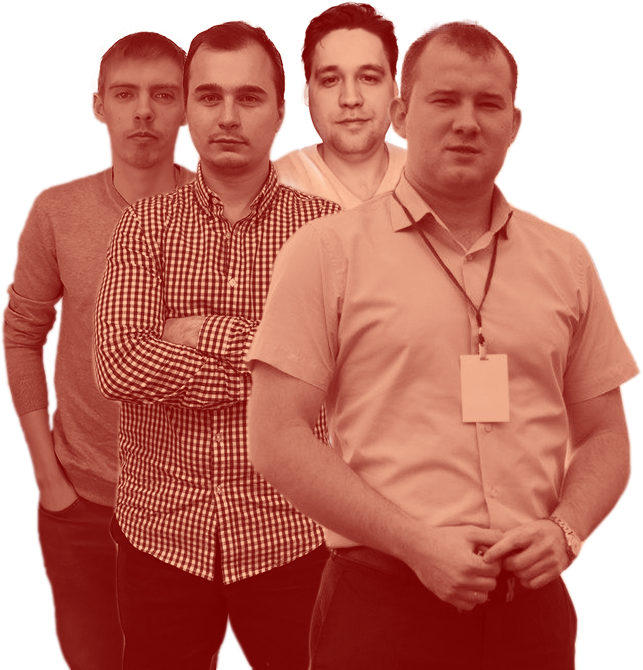
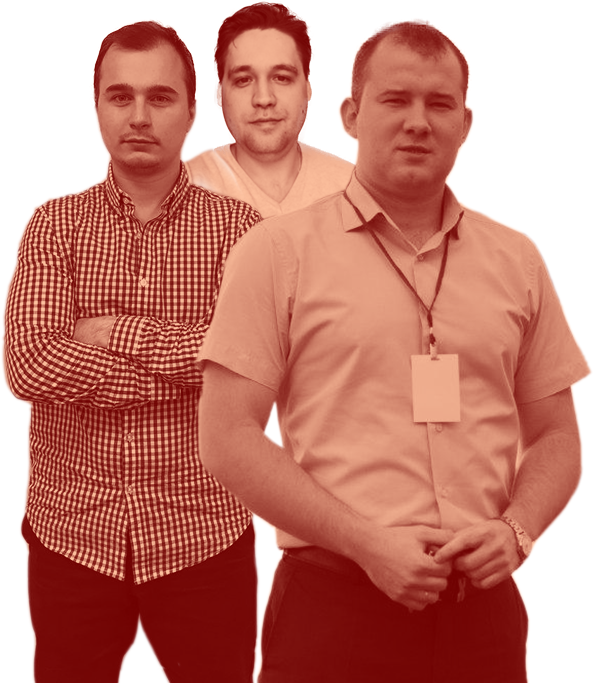
asd

diff --git a/portfolio/1-5/css/index.css b/portfolio/1-5/css/index.css
@@ -175,100 +175,175 @@ left: 0;
 z-index: -2;
 }
 
+#team .team-kosar {
+position: absolute;
+bottom: 0;
+z-index: -3;
+left: 21vw;
+}
+
 #team .team-center {
 position: absolute;
 bottom: 0;
 z-index: -3;
-left: 0;
-right: 0;
-margin: 0 auto;
-width: 643px;
+left: 36vw;
+
+}
+
+#team .team-maks {
+position: absolute;
+bottom: 0;
+z-index: -1;
+left: 69vw;
 }
 
 #team .team-right {
 position: absolute;
 bottom: 0;
 right: 0;
-z-index: -1;	
+z-index: -2;	
 }
 
 
-@media screen and (max-width: 1381px) { 
+#team .team-left {
+    width: calc(480px + 3%);
+}
+
+#team .team-kosar {
+    width: calc(293px + 3%);
+}
+
+#team .team-center {
+	width: calc(594px + 6%);
+}
+
+#team .team-maks {
+	width: calc(356px + 2%);
+}
+
+#team .team-right {
+	width: calc(268px + 3%);
+}
+
+
+
+
+@media screen and (max-width: 1620px) { 
+
+#team .team-left {
+    width: 480px
+}
+
+#team .team-kosar {
+    width: 293px;
+}
+
+#team .team-center {
+	width:594px;
+}
+
+#team .team-maks {
+	width:calc(356px - 2%);
+}
+
+#team .team-right {
+	width: 268px;
+}
+
+}
+
+@media screen and (max-width: 1390px) { 
 
 #team .team-left {
     width: calc(480px - 3%);
 }
 
+#team .team-kosar {
+    width: calc(293px - 2%);
+}
+
 #team .team-center {
-	width: calc(643px - 3%);
+	width: calc(594px - 3%);
+}
+
+#team .team-maks {
+	width: calc(356px - 5%);
 }
 
 #team .team-right {
-	width: calc(500px - 3%);
+	width: calc(268px - 3%);
 }
 
 }
 
-@media screen and (max-width: 1305px) { 
+@media screen and (max-width: 1235px) { 
 
 #team .team-left {
-    width: calc(480px - 6%);
+    width: calc(480px - 5%);
+}
+
+#team .team-kosar {
+    width: calc(293px - 3%);
 }
 
 #team .team-center {
-	width: calc(643px - 6%);
+	width: calc(594px - 6%);
+}
+
+#team .team-maks {
+	width: calc(356px - 7%);
 }
 
 #team .team-right {
-	width: calc(500px - 6%);
+	width: calc(268px - 4%);
 }
 
 }
 
-@media screen and (max-width: 1205px) { 
+@media screen and (max-width: 1130px) { 
 
 #team .team-left {
-    width: calc(480px - 9%);
+    width: calc(480px - 10%);
+}
+
+#team .team-kosar {
+    width: calc(293px - 5%);
 }
 
 #team .team-center {
-	width: calc(643px - 9%);
+	width: calc(594px - 13%);
+}
+
+#team .team-maks {
+	width: calc(356px - 11%);
 }
 
 #team .team-right {
-	width: calc(500px - 9%);
+	width: calc(268px - 7%);
 }
 
 }
 
-@media screen and (max-width: 1105px) { 
+@media screen and (max-width: 1027px) { 
 
 #team .team-left {
-    width: calc(480px - 9%);
+    width: calc(480px - 13%);
+}
+
+#team .team-kosar {
+    width: calc(293px - 6%);
 }
 
 #team .team-center {
-	width: calc(643px - 9%);
+	width: calc(594px - 17%);
+}
+
+#team .team-maks {
+	width: calc(356px - 13%);
 }
 
 #team .team-right {
-	width: calc(500px - 9%);
-}
-
-}
-
-@media screen and (max-width: 1024px) { 
-
-#team .team-left {
-    width: calc(480px - 12%);
-}
-
-#team .team-center {
-	width: calc(643px - 12%);
-}
-
-#team .team-right {
-	width: calc(500px - 12%);
+	width: calc(268px - 8%);
 }
 
 }
@@ -276,15 +351,23 @@ z-index: -1;
 @media screen and (max-width: 980px) { 
 
 #team .team-left {
-    width: calc(480px - 15%);
+    width: calc(480px - 13%);
+}
+
+#team .team-kosar {
+    width: calc(293px - 6%);
 }
 
 #team .team-center {
-	width: calc(643px - 15%);
+	width: calc(594px - 17%);
+}
+
+#team .team-maks {
+	width: calc(356px - 13%);
 }
 
 #team .team-right {
-	width: calc(500px - 15%);
+	width: calc(268px - 8%);
 }
 
 }
@@ -292,11 +375,10 @@ z-index: -1;
 #team .head-title {
     display: flex;
     justify-content: space-between;
-    margin-left: 4vw;
-    margin-right: 9vw;
 }
 
 #team .head-title .title {
+margin-left: 4vw;
 color: #000;
 font-family: "ProximaNova-Black";
 font-size: 100px;	
@@ -307,6 +389,7 @@ color: #000;
 font-family: "ProximaNova-Reg";
 font-size: 18px;	
 margin-top: 60px;
+margin-right: 9vw;
 }
 
 #team .desc {
@@ -332,6 +415,7 @@ margin-bottom: 5px;
 color: #fff;
 font-family: "ProximaNova-Bold";
 font-size: 18px;
+margin-left: 0;
 }
 
 #team .principles .list{
@@ -1822,6 +1906,10 @@ min-height: 1000px;
 
 .hide-site-on {
 	display: block;
+}
+
+.pdtop {
+	margin-top: 10px;
 }
 
 

diff --git a/portfolio/1-5/index.html b/portfolio/1-5/index.html
@@ -29,7 +29,9 @@
 <!--Команда-->
   	<div id="team" class="slide section">
   		<img class="team-left" src="img/teaml-left.png">
+  		<img class="team-kosar" src="img/team-kosar.png">
   		<img class="team-center" src="img/team-center.png">
+  		<img class="team-maks" src="img/maks.png">
   		<img class="team-right" src="img/team-right.png">
  		<div class="head-title">
  			<div class="title">Команда</div>
@@ -969,7 +971,7 @@
 
 <!--Денников-->
  	<div id="dennikov" class="section">
- 		<div class="valek-site"><a href="http://valekdennikov.ru/">valekdennikov.ru</a><div class="v-underline"></div></div>
+ 		<div class="valek-site hide-site-off"><a href="http://valekdennikov.ru/">valekdennikov.ru</a><div class="v-underline"></div></div>
  		<div class="valek-site hide-site-off extra-padding"><a href="#">Резюме на hh.ru</a><div class="v-underline"></div></div>
  		<div class="first-line">
 	 		<div class="head">
@@ -979,6 +981,7 @@
 	 		<div class="pt">
 	 			<div class="padd">
 	 				<div class="resume hide-site-on"><a href="#">Резюме на hh.ru</a><div class="v-underline"></div></div>
+	 				<div class="resume hide-site-on pdtop"><a href="http://valekdennikov.ru/">valekdennikov.ru</a><div class="v-underline"></div></div>
 	 				<div class="position">Проектировщик пользовательских интерфейсов</div>
 	 				<div class="time">32 года, 1 год в команде</div>
 	 			</div>
